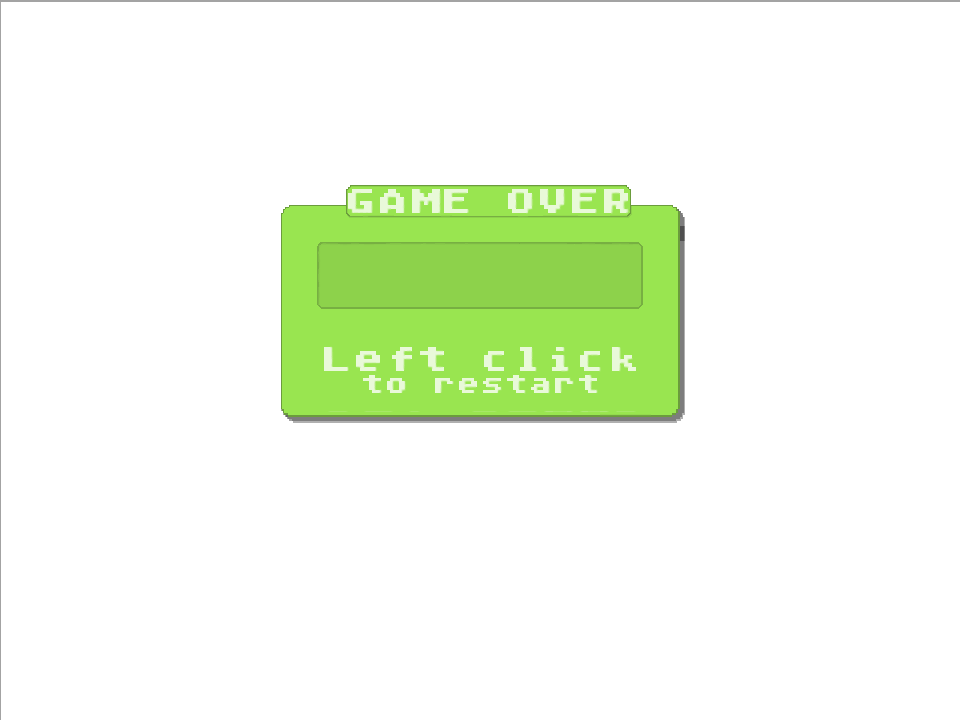
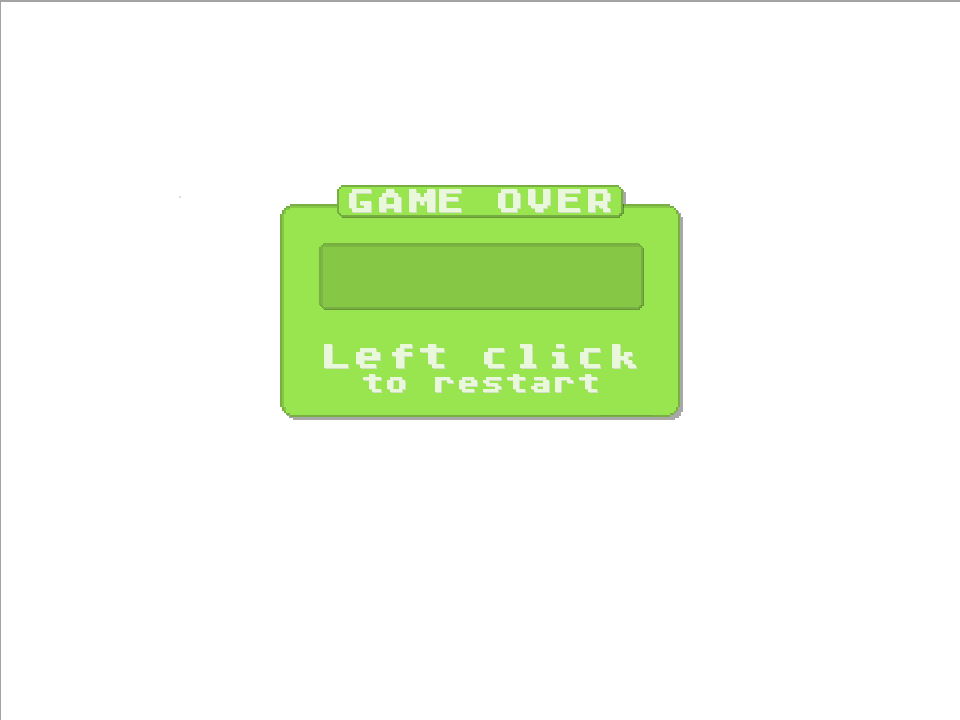
add credits & redesign game over

diff --git a/src/game.cpp b/src/game.cpp
@@ -14,13 +14,14 @@ Game::Game()
 
     headTexture = window->loadTexture("./assets/head.png");
     bodyTexture = window->loadTexture("./assets/body.png");
-    tailTexture = window->loadTexture("./assets/tail.png");
+    tailTexture = bodyTexture;
 
     bestScoreTexture = window->loadTexture("./assets/bestscore.png");
 
     gameOverTexture = window->loadTexture("./assets/gameover.png");
-    pauseScreenTexture = window->loadTexture("./assets/pausescreen.png");
+    vignetteTexture = window->loadTexture("./assets/pausescreen.png");
     controlsTexture = window->loadTexture("./assets/controls.png");
+    creditsTexture = window->loadTexture("./assets/credits.png");
 
     eatSound = window->loadSound("./assets/eat.wav");
     hitSound = window->loadSound("./assets/hit.wav");
@@ -99,8 +100,12 @@ void Game::handleEvents(){
                             overlayStack.pop();
                         }
                         break;
-                    case SDLK_r:
-                        respawnFood();
+                    case SDLK_F1:
+                        if ( overlayStack.empty() || overlayStack.top() != overlayType::Cretids ){
+                            overlayStack.push( overlayType::Cretids );
+                        } else if ( overlayStack.top() == overlayType::Cretids ){
+                            overlayStack.pop();
+                        }
                         break;
                 }
             case SDL_MOUSEBUTTONDOWN: // if mouse button pressed down
@@ -198,19 +203,21 @@ void Game::update(){
         snake->updatePosition();
         checkCollision();
     } else if ( overlayStack.top() == overlayType::GameOver ) {
-        window->render(pauseScreenTexture, SCREEN_WIDTH, SCREEN_HEIGHT, 0.f, 0.f);
-        window->render(gameOverTexture, SCREEN_WIDTH, SCREEN_HEIGHT, 0.f, 0.f);
+        window->render(vignetteTexture, SCREEN_WIDTH, SCREEN_HEIGHT, 0.f, 0.f); // darkened overlay
+        window->render(gameOverTexture, SCREEN_WIDTH, SCREEN_HEIGHT, 0.f, 0.f); // menu overlay
 
-        window->render(apple->texture, 64, 64, 320, 244, 0);
-        window->render(font, getScore(score), {233, 249, 217}, 90, BLOCK_SIZE, 384, 255);
+        window->render(apple->texture, 64, 64, 320, 244, 0); // apple icon
+        window->render(font, getScore(score), {233, 249, 217}, 90, BLOCK_SIZE, 384, 255); // current score text
 
-        window->render(bestScoreTexture, 64, 64, 480, 244, 0);
-        window->render(font, getScore(bestScore), {233, 249, 217}, 90, BLOCK_SIZE, 480+64, 255);
-
+        window->render(bestScoreTexture, 64, 64, 480, 244, 0); // best icon
+        window->render(font, getScore(bestScore), {233, 249, 217}, 90, BLOCK_SIZE, 480+64, 255); // best score text
     } else if ( overlayStack.top() == overlayType::PauseScreen ){
-        window->render(pauseScreenTexture, SCREEN_WIDTH, SCREEN_HEIGHT, 0.f, 0.f);
+        window->render(vignetteTexture, SCREEN_WIDTH, SCREEN_HEIGHT, 0.f, 0.f);
     } else if ( overlayStack.top() == overlayType::Controls ){
         window->render(controlsTexture, 256, 128, SCREEN_WIDTH/3, BLOCK_SIZE*3);
+    } else if ( overlayStack.top() == overlayType::Cretids ){
+        window->render(vignetteTexture, SCREEN_WIDTH, SCREEN_HEIGHT, 0.f, 0.f);
+        window->render(creditsTexture, SCREEN_WIDTH, SCREEN_HEIGHT, 0.f, 0.f);
     }
     
     window->update();
@@ -262,8 +269,9 @@ Game::~Game(){
     SDL_DestroyTexture( appleTexture );
     SDL_DestroyTexture( bestScoreTexture );
     SDL_DestroyTexture( gameOverTexture );
-    SDL_DestroyTexture( pauseScreenTexture );
+    SDL_DestroyTexture( vignetteTexture );
     SDL_DestroyTexture( controlsTexture );
+    SDL_DestroyTexture( creditsTexture );
 
     SDL_DestroyTexture( headTexture );
     SDL_DestroyTexture( bodyTexture );

diff --git a/src/game.hpp b/src/game.hpp
@@ -27,6 +27,7 @@ private:
 
     enum            overlayType{
         PauseScreen,
+        Cretids,
         Controls,
         GameOver
     };
@@ -43,8 +44,9 @@ private:
     SDL_Texture*    appleTexture;
     SDL_Texture*    bestScoreTexture;
     SDL_Texture*    gameOverTexture;
-    SDL_Texture*    pauseScreenTexture;
+    SDL_Texture*    vignetteTexture;
     SDL_Texture*    controlsTexture;
+    SDL_Texture*    creditsTexture;
 
     // snake sfx
     Mix_Chunk*      eatSound;
